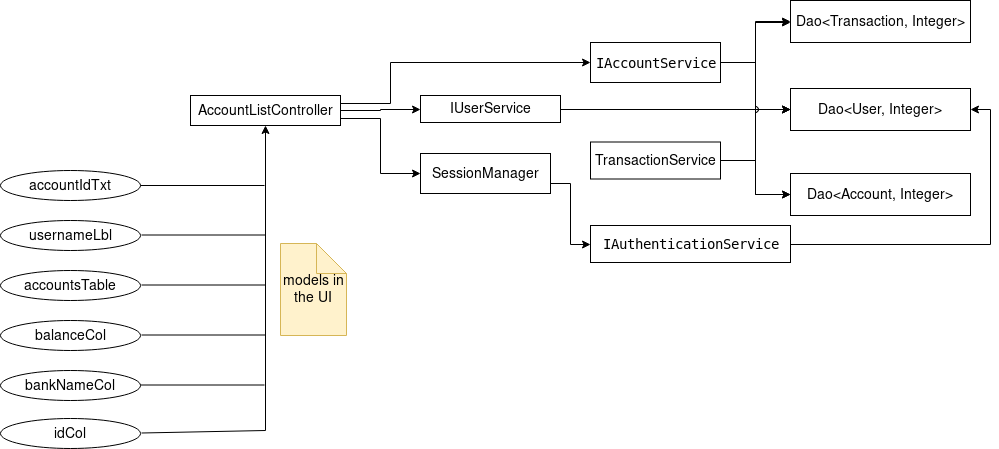
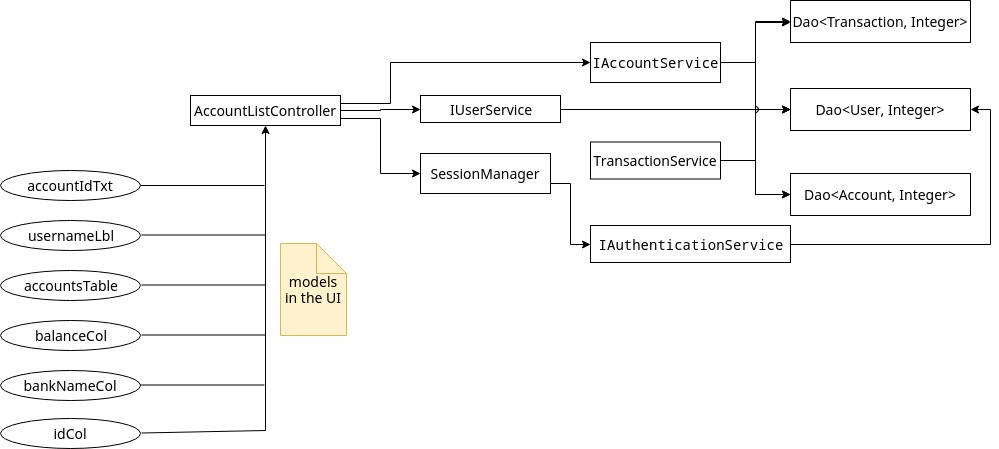
changes from ed9eee5969cd039520b6e74323f50c8c9f4bb714 implemented correctly

diff --git a/documentation/DesignDocument.tex b/documentation/DesignDocument.tex
@@ -87,7 +87,7 @@ Wei Wang & 40041116 \\
 
 \section{Introduction and Purpose}
 
-The goal of this document is to define the design for the desktop application myMoney. The majority of the design decisions have been taken     with the Requirements document in mind, one may thus want to look at this document first to have a clear picture of the problem in mind as well as the requirements demanded for the solution. This document presents an implementation of a possible solution to answer this problem. Its design is is outlined through an Architectural Design (AD), a Detailed design (DD) and Dynamic Design Scenarios (DDS) for the application. The AD focuses on high-level project decomposition, the DD describes the overarching system design (which includes the UML design, divided into multiple subsections), and the DDS displays how the subsystems interact with one another in order to produce system-level services. This document may thus be used to plan, coordinate, and guide the development of the software, estimate and allocate necessary resources for proper execution, and  then actually implement the software for the system. It seeks, above all, to serve as a precise and stable reference throughout the development.
+The goal of this document is to define the design for the desktop application myMoney. The majority of the design decisions have been taken     with the Requirements document in mind, one may thus want to look at this document first to have a clear picture of the problem in mind as well as the requirements demanded for the solution. This document presents an implementation of a possible solution to answer this problem. Its design is is outlined through an Architectural Design (AD), a Detailed design (DD) and Dynamic Design Scenarios (DDS) for the application. The AD focuses on high-level project decomposition, the DD describes the overarching system design (which includes the UML design, divided into multiple subsections), and the DDS displays how the subsystems interact with one another in order to produce system-level services. This document may thus be used to plan, coordinate, and guide the development of the software, estimate and allocate necessary resources for proper execution, and  then actually implement the software for the system. It seeks, above all, to serve as a precise and stable reference throughout development.
 
 \section{Scope}
 
@@ -95,11 +95,13 @@ This document contains everything to do with the development decisions and desig
 
 \section{Architectural Design} \label{sec:arch}
 
-The myMoney application uses the Model-View-Controller (MVC) pattern to read, validate and modify the objects. The view is implemented through a JAVAFX front-end interface. This view then reports any events triggered by the user to the view controllers, which access the back-end and SQLite database to modify the model. Once updated, the model then passes its changes back to the view, to update the information displayed to the user. A more in-depth view of the interaction between the user and the view can be seen in the dynamic models, in section \ref{Dynamic Models}.
+The myMoney application uses the Model-View-Controller (MVC) architectural pattern at its core.
 
-The controllers are implemented through a series of function calls to services which handle different layers of the application. All services perform their own validation, whether it is for implementing the business rules, or simply ensuring expected application behaviour (no null objects, caught exceptions...). Once this validation has been verified, the controllers passes the actually requested model change to the model. Examples of such services, their intercommunication, and their validation, is explained more in-depth in section \ref{subsystem interface}.
+The \textit{view} is implemented through a JAVAFX front-end interface, which consists mostly of hard-coded tables structures or menus, which are then populated with table entries by the model, as requested by the view controllers. The view is interactive, and reports any events triggered by the user to the view controllers, which then pass the requests to the model controllers (services), which handle the modification of the model. Once updated, the model then passes its changes back to the view controllers, to update the information displayed to the user. A more in-depth view of the interaction between the user and the view can be seen in the dynamic models, in section \ref{Dynamic Models}.
 
-The model, which includes the back-end connection to the database, is the more complex part of the system. Lower layer services use the data access objects (DAO) to apply edits to the database, after the upper layers have verified the validity of the calls. Our system actually employs two databases; The first, a local database holding user info, bank account info, and transaction info, and the second, a "remote" database (also local, but acts as if it were remote) used to simulate the bank institutions' servers. When the user first adds a bank account, our view receives his input, passes it to the controls, which then makes requests for information to the "remote" database through the use of the services handling remote communication. These services receive a serialisation of the "remote" account, which it then translates into usable data for the local database. Once this has been successfully executed, the model triggers a view update, wherein the user can see his newly requested additions. All other events triggered by the user have no need of the remote database, and simply employ a series of communications between the controllers and the services handling local database. See section \ref{subsystem interface} for more details on these services and the databases.
+The \textit{controllers} are the most complex part of the system. They are organised in a layered structure of services, which each handle a different sector of the application (session management, account services, user services, etc). All services perform their own validation, whether it is for implementing the business rules, or simply ensuring expected application behaviour (no null objects, caught exceptions...). Once this validation has been verified, the controllers passes the actually requested change to the model. Examples of such services, their intercommunication, and their validation, is explained more in-depth in section \ref{subsystem interface}.
+
+The \textit{model}, which includes the back-end connection to the database, is composed of data access objects (DAOs), which are used to apply edits to the database, after the upper layers of the controllers have verified the validity of the calls. Our system actually employs two databases; The first, a local database holding user info, bank account info, and transaction info, and the second, a "remote" database (also local, but acts as if it were remote) used to simulate the bank servers. The only time the second database is actually accessed is when the user first adds a bank account. In this case, our view receives his input, passes it to the controls, which then makes requests for information to the "remote" database through the use of the services handling remote communication. These services receive, from the DAOs, a serialisation of the "remote" account, which it then translates into usable data for the local database. Once this has been successfully executed, the model triggers a view update, wherein the user can see his newly requested additions. All other events triggered by the user have no need of the remote database, and simply employ a series of communications between the controllers and the services handling local database. See section \ref{subsystem interface} for more details on these services and the databases.
 
 \subsection{Architectural Diagram}
 
@@ -107,11 +109,15 @@ The model, which includes the back-end connection to the database, is the more c
 \includegraphics[width=\linewidth]{package-diagram.png}
 \end{figure}
 
-This design represents the MVC pattern discussed previously. The big advantage of this design is that everything is separated with interfaces which makes it easier to use different implementations, modify the features and create or mock tests.
+We herewith present the architectural diagram of the design presented above, and provide an explanation of each package (but not for the subsystems within each package). A succint and precise description of each subsystem is available in the next section.
 
-The com.github.comp354project.service package is the main subsystem where most of the logic happens. The data validation and processing is done there. It connects to an SQLite database to persist the data. The com.github.comp354project.viewController calls this package to update the view and the model.
+Notice first that MVC's style forces a clear separation of concerns, and thus emphasises a great amount of intercommunication between each section. To embrace this, using interfaces for each component presented above will clearly separate the implementation from the structure of the module, which eases parallel addition, modification, or testing of the system.
 
-The com.github.comp354project.service package.account.remote package is a subsystem to our services which is meant to mock an API call to systems outside of ours like banks or credit card companies. Because we don't have access to these APIs for real, obviously, the data is persisted in the same SQLite database as the rest of the system.
+The com.github.comp354project.service package is the main subsystem of our project. As mentioned above, it is organised in a layered manner, wherein each layer handles its own services, and use the services of the layer below it within worrying about that layer's implementation. Data validation and processing is offered by each service: The account service, for example, validate calls to add or delete bank accounts, edit a transaction's category, or query for specific accounts. It does this by querying the database using an account DAO, and ensuring data integrity and validity (with regards to the business rules). It does not, however, worry about user authorisation, and simply assumes the layer above it (The user service) will have handled it. The com.github.comp354project.viewController calls services within this package to update the view and the model.
+
+The com.github.comp354project.viewController package contains a number of controllers for each different view. They are the ones handling the requests from the users, which they pass to the services in the package described above. They are also the ones who pass any errors from the services to the views, mostly to be used for testing and alerting the user of any problems that might have occured.
+
+The com.github.comp354project.service package.account.remote package is a subsystem to our services which mocks an API call to remote servers of banks or credit card companies. In our case however, we don't actually have access to such systems. For this reason, the remote data exists in an SQLite database like our local one.
 
 \subsection{Subsystem Interface Specifications} \label{subsystem interface}
 
@@ -123,8 +129,10 @@ including valid and invalid ranges of values.
 Each subsystem interface must be presented in a separate subsection.
 
 *Note: The above is a description of what to provide. Need to edit into our own
+\subsubsection{View Controllers}
 
-\subsubsection{SignUpController Interfaces}
+We herewith present the view controllers, and the services they access.
+\paragraph{SignUpController Interfaces}
 
 Below are the different models and services used in the SignUpController view.
 
@@ -134,7 +142,7 @@ Below are the different models and services used in the SignUpController view.
 
 \clearpage
 
-\subsubsection{LoginController Interfaces}
+\paragraph{LoginController Interfaces}
 
 Below are the different models and services used in the LoginController view.
 
@@ -144,7 +152,7 @@ Below are the different models and services used in the LoginController view.
 
 \clearpage
 
-\subsubsection{AcountDetailsController Interfaces}
+\paragraph{AcountDetailsController Interfaces}
 
 Below are the different models and services used in the AccountDetailsController view.
 
@@ -154,12 +162,12 @@ Below are the different models and services used in the AccountDetailsController
 
 \clearpage
 
-\subsubsection{AccountListController Interfaces}
+\paragraph{AccountListController Interfaces}
 
 Below are the different models and services used in the AccountListController view.
 
 \begin{figure}[H]
-\includegraphics[width=\linewidth]{subsystem-interface-AccountListController.jpg}
+\includegraphics[width=\linewidth]{subsystem-interface-AccountListController.png}
 \end{figure}
 
 \clearpage
@@ -326,7 +334,7 @@ None                 &                     &                         &          
                                      & private             & String                                            & type             & type of bank account (chequing, savings, ect) \\ \cline{2-5}
                                      & private             & Double                                            & balance          & Amount inside the account                     \\ \cline{2-5}
                                      & private             & User                                              & user             & name of the user                              \\ \cline{2-5}
-                                     & private             & ForeignCollection\textlessTransaction\textgreater & transactions     & transaction object                            \\ \hline
+                                     & private             & ForeignCollection\textless Transaction\textgreater & transactions     & transaction object                            \\ \hline
 \multirow{2}{*}{\textbf{Methods}}    & \textbf{Visibility} & \textbf{Name}                                     & \textbf{Returns} & \textbf{Description}                          \\ \cline{2-5}
                                      & none                & none                                              & none             & none                                          \\ \hline
 \end{tabular}%
@@ -348,8 +356,8 @@ None                 &                     &                         &          
 \textbf{Description}                 & \multicolumn{4}{l|}{\begin{tabular}[c]{@{}l@{}}Class used to request information from the bank\\ database in order to add or delete an account to myMoney application\end{tabular}}                                                                       \\ \hline
 \multirow{5}{*}{\textbf{Attributes}} & \textbf{Visibility} & \textbf{Data Type}                          & \textbf{Name}        & \textbf{Description}                                                                                                 \\ \cline{2-5}
                                      & private             & Logger                                      & logger               & \begin{tabular}[c]{@{}l@{}}logger object attribute used\\ to keep track of events\end{tabular}                                                                 \\ \cline{2-5}
-                                     & private             & Dao\textlessTransaction,Integer\textgreater & transactionDao       & \begin{tabular}[c]{@{}l@{}}Dao object used to \\query transactions\end{tabular}                                                                                \\ \cline{2-5}
-                                     & private             & Dao\textlessUser,Integer\textgreater        & userDao              & \begin{tabular}[c]{@{}l@{}}Dao object used to \\query users\end{tabular}                                                                             \\ \cline{2-5}
+                                     & private             & Dao\textless Transaction,Integer\textgreater & transactionDao       & \begin{tabular}[c]{@{}l@{}}Dao object used to \\query transactions\end{tabular}                                                                                \\ \cline{2-5}
+                                     & private             & Dao\textless User,Integer\textgreater        & userDao              & \begin{tabular}[c]{@{}l@{}}Dao object used to \\query users\end{tabular}                                                                             \\ \cline{2-5}
                                      & private             & IRemoteAccountService                       & remoteAccountService & \begin{tabular}[c]{@{}l@{}}Dao object used to \\query remote accounts\end{tabular}                                                                                    \\ \hline
 \multirow{5}{*}{\textbf{Methods}}    & \textbf{Visibility} & \textbf{Name}                               & \textbf{Returns}     & \textbf{Description}                                                                                                 \\ \cline{2-5}
                                      & public              & addAccount                                  & Account              & \begin{tabular}[c]{@{}l@{}}method to request bank \\information from the database\end{tabular}                                                                 \\ \cline{2-5}
@@ -468,7 +476,7 @@ None                              & None                & None                  
 \textbf{Description}                 & \multicolumn{4}{l|}{class used to help with transaction changes}                                                                               \\ \hline
 \multirow{4}{*}{\textbf{Attributes}} & \textbf{Visibility} & \textbf{Data Type}                          & \textbf{Name}     & \textbf{Description}                                   \\ \cline{2-5}
                                      & private             & Logger                                      & logger            & object used to interact with TransactionService class  \\ \cline{2-5}
-                                     & private             & Dao\textlessTransaction,Integer\textgreater & transactionDao    & object used to perform methods related to transactions \\ \cline{2-5}
+                                     & private             & Dao\textless Transaction,Integer\textgreater & transactionDao    & object used to perform methods related to transactions \\ \cline{2-5}
                                      & private             & ICategoryNameValidator                      & categoryValidator & object used to validate if a category is correct       \\ \hline
 \multirow{3}{*}{\textbf{Methods}}    & \textbf{Visibility} & \textbf{Name}                               & \textbf{Returns}  & \textbf{Description}                                   \\ \cline{2-5}
                                      & public              & TransactionService                          & N/A               & constructor                                            \\ \cline{2-5}
@@ -665,10 +673,10 @@ None                                 &                     &                    
 \textbf{Attributes}  & \textbf{Visibility} & \textbf{Data Type}                                              & \textbf{Name}                                  & \textbf{Description}                                                                        \\ \hline
                      & private             & Logger                                                          & logger                                         & Logs event information                                                                      \\ \hline
 \textbf{Methods}     & \textbf{Visibility} & \textbf{Name}                                                   & \textbf{Returns}                               & \textbf{Description}                                                                        \\ \hline
-                     & public              & provideRemoteAccountDao(IConnectionProvider connectionProvider) & Dao\textlessRemoteAccount, Integer\textgreater & \begin{tabular}[c]{@{}l@{}}Returns the implementation \\ of a RemoteAccountDao\end{tabular} \\ \hline
-                     & public              & provideAccountDao(IConnectionProvider connectionProvider)       & Dao\textlessAccount, Integer\textgreater       & \begin{tabular}[c]{@{}l@{}}Returns the implementation\\ of an AccountDao\end{tabular}       \\ \hline
-                     & public              & provideTransactionDao(IConnectionProvider connectionProvider)   & Dao\textlessTransaction, Integer\textgreater   & \begin{tabular}[c]{@{}l@{}}Returns the implementation\\ of a TransactionDao\end{tabular}    \\ \hline
-                     & public              & provideUserDao(IConnectionProvider connectionProvider)          & Dao\textlessUser, Integer\textgreater          & \begin{tabular}[c]{@{}l@{}}Returns the implementation\\ of a UserDao\end{tabular}           \\ \hline
+                     & public              & provideRemoteAccountDao(IConnectionProvider connectionProvider) & Dao\textless RemoteAccount, Integer\textgreater & \begin{tabular}[c]{@{}l@{}}Returns the implementation \\ of a RemoteAccountDao\end{tabular} \\ \hline
+                     & public              & provideAccountDao(IConnectionProvider connectionProvider)       & Dao\textless Account, Integer\textgreater       & \begin{tabular}[c]{@{}l@{}}Returns the implementation\\ of an AccountDao\end{tabular}       \\ \hline
+                     & public              & provideTransactionDao(IConnectionProvider connectionProvider)   & Dao\textless Transaction, Integer\textgreater   & \begin{tabular}[c]{@{}l@{}}Returns the implementation\\ of a TransactionDao\end{tabular}    \\ \hline
+                     & public              & provideUserDao(IConnectionProvider connectionProvider)          & Dao\textless User, Integer\textgreater          & \begin{tabular}[c]{@{}l@{}}Returns the implementation\\ of a UserDao\end{tabular}           \\ \hline
 \end{tabular}%
 }
 \end{table}

diff --git a/src/main/java/com/github/comp354project/viewController/AccountListController.java b/src/main/java/com/github/comp354project/viewController/AccountListController.java
@@ -21,23 +21,19 @@ import javafx.beans.property.SimpleIntegerProperty;
 import javafx.beans.property.SimpleStringProperty;
 import javafx.collections.FXCollections;
 import javafx.collections.ObservableList;
-import javafx.event.ActionEvent;
 import javafx.fxml.FXML;
 import javafx.fxml.Initializable;
-import javafx.scene.control.Label;
 import javafx.scene.control.TableColumn;
 import javafx.scene.control.TableView;
 import javafx.scene.control.TextField;
 import javafx.scene.control.cell.PropertyValueFactory;
 import javafx.scene.input.MouseEvent;
-import lombok.Data;
 
 import javax.inject.Inject;
 
 
 public class AccountListController implements Initializable {
 
-	@FXML private Label usernameLbl;
 	@FXML private TextField accountIdTxt;
 	@FXML private TableView<AccountDisplayModel> accountsTable;
 	@FXML private TableColumn<AccountDisplayModel, Integer>  idCol;
@@ -62,10 +58,10 @@ public class AccountListController implements Initializable {
 	}
 
 	public void initialize(URL url, ResourceBundle rb) {
-		idCol.setCellValueFactory(new PropertyValueFactory<AccountDisplayModel,Integer>("id"));
-		bankNameCol.setCellValueFactory(new PropertyValueFactory<AccountDisplayModel,String>("bankName"));
-		typeCol.setCellValueFactory(new PropertyValueFactory<AccountDisplayModel,String>("type"));
-		balanceCol.setCellValueFactory(new PropertyValueFactory<AccountDisplayModel,Double>("balance"));
+		idCol.setCellValueFactory(new PropertyValueFactory<>("id"));
+		bankNameCol.setCellValueFactory(new PropertyValueFactory<>("bankName"));
+		typeCol.setCellValueFactory(new PropertyValueFactory<>("type"));
+		balanceCol.setCellValueFactory(new PropertyValueFactory<>("balance"));
 		accountsTable.setItems(tableData);
 	}
 
@@ -85,18 +81,18 @@ public class AccountListController implements Initializable {
 	}
 
 	@FXML
-	public void viewAllAccounts(ActionEvent event)  {
+	public void viewAllAccounts()  {
 		MyMoneyApplication.application.displayAllAccountDetails(accounts);
 	}
 
 	@FXML
-    public void logout(ActionEvent event)  {
+    public void logout()  {
 		this.sessionManager.logout();
 		MyMoneyApplication.application.displayLogin();
     }
 
 	@FXML
-	public void updateUserInfo(ActionEvent event) throws IOException {
+	public void updateUserInfo() throws IOException {
 		MyMoneyApplication.application.displayUpdateUser();
 	}
 

diff --git a/src/main/java/com/github/comp354project/viewController/AccountDetailsController.java b/src/main/java/com/github/comp354project/viewController/AccountDetailsController.java
@@ -6,13 +6,9 @@ import com.github.comp354project.service.account.Transaction;
 import com.github.comp354project.viewController.view.TransactionTable;
 import javafx.fxml.FXML;
 import javafx.fxml.Initializable;
-import javafx.scene.control.Button;
 import javafx.scene.control.Label;
-import javafx.scene.input.MouseEvent;
-import javafx.scene.layout.AnchorPane;
 import lombok.Getter;
 
-import java.io.IOException;
 import java.net.URL;
 import java.util.ArrayList;
 import java.util.List;
@@ -28,11 +24,6 @@ public class AccountDetailsController implements Initializable {
     private Label accountDescription;
     @FXML
     private Label accountType;
-    @FXML
-    private Button deleteAccountBtn;
-    @FXML
-    private AnchorPane anchorPane;
-
 
     @Getter
     private Account account;
@@ -41,15 +32,14 @@ public class AccountDetailsController implements Initializable {
     }
 
     @FXML
-    public void gotoAccountList(MouseEvent event) throws IOException {
+    public void gotoAccountList() {
         MyMoneyApplication.application.displayAccounts();
     }
 
     public void setAccount(Account account) {
         this.account = account;
 
-        List<Transaction> transactions = new ArrayList<>();
-        transactions.addAll(account.getTransactions());
+        List<Transaction> transactions = new ArrayList<>(account.getTransactions());
         this.transactionTable.addTransactions(transactions);
         this.transactionTable.hideAccountIDColumn();
 
